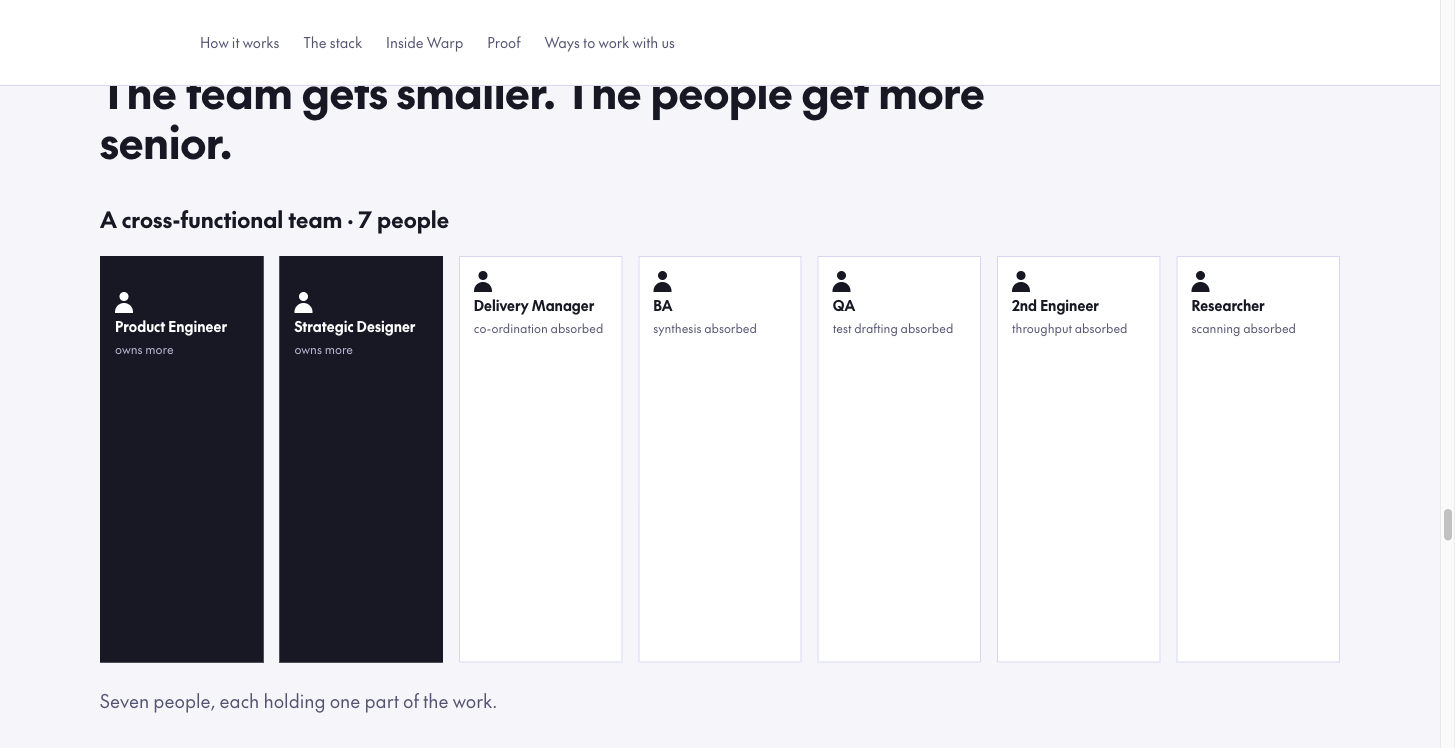
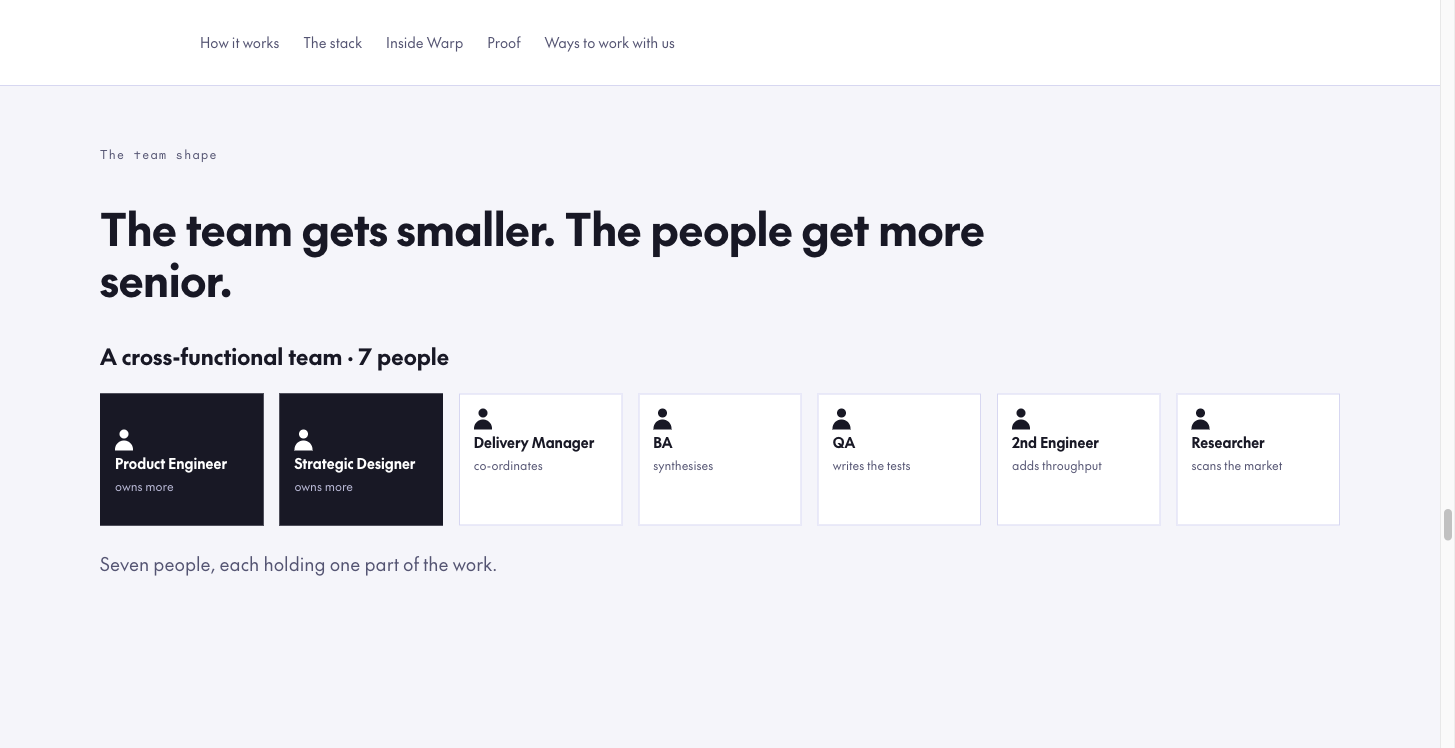
Match the team tile size across both states
The two states had identical tile widths (163px) but wildly different
heights: 407px before, 132px after.

Cause: a zero-width flex item still lays its text out, wrapping to one
character per line, and flex items stretch to the tallest sibling. At
rest the two collapsed arriving tiles were three hundred pixels tall
and setting the height of the whole row.

- .tstage takes a fixed height rather than min-height, so the row can
  never be sized by its content.
- Collapsing tiles keep their text on one line, so it cannot stack
  while their width goes to zero.

Both states now measure 163x132 per tile.

Also: the departing tiles read "co-ordination absorbed" at rest, before
anything had been absorbed. They are only ever read in the before state,
so they now say what the role does — co-ordinates, synthesises, writes
the tests. The absorption is told by them disappearing.

diff --git a/index.html b/index.html
@@ -376,11 +376,11 @@
           <div class="trow">
           <div class="trole trole--stays"><span class="trole__tag">Stays</span><span class="trole__icon"><i></i><u></u></span><span class="trole__name">Product Engineer</span><span class="trole__note">owns more</span></div>
           <div class="trole trole--stays"><span class="trole__tag">Stays</span><span class="trole__icon"><i></i><u></u></span><span class="trole__name">Strategic Designer</span><span class="trole__note">owns more</span></div>
-          <div class="trole trole--leaves"><span class="trole__icon"><i></i><u></u></span><span class="trole__name">Delivery Manager</span><span class="trole__note">co-ordination absorbed</span></div>
-          <div class="trole trole--leaves"><span class="trole__icon"><i></i><u></u></span><span class="trole__name">BA</span><span class="trole__note">synthesis absorbed</span></div>
-          <div class="trole trole--leaves"><span class="trole__icon"><i></i><u></u></span><span class="trole__name">QA</span><span class="trole__note">test drafting absorbed</span></div>
-          <div class="trole trole--leaves"><span class="trole__icon"><i></i><u></u></span><span class="trole__name">2nd Engineer</span><span class="trole__note">throughput absorbed</span></div>
-          <div class="trole trole--leaves"><span class="trole__icon"><i></i><u></u></span><span class="trole__name">Researcher</span><span class="trole__note">scanning absorbed</span></div>
+          <div class="trole trole--leaves"><span class="trole__icon"><i></i><u></u></span><span class="trole__name">Delivery Manager</span><span class="trole__note">co-ordinates</span></div>
+          <div class="trole trole--leaves"><span class="trole__icon"><i></i><u></u></span><span class="trole__name">BA</span><span class="trole__note">synthesises</span></div>
+          <div class="trole trole--leaves"><span class="trole__icon"><i></i><u></u></span><span class="trole__name">QA</span><span class="trole__note">writes the tests</span></div>
+          <div class="trole trole--leaves"><span class="trole__icon"><i></i><u></u></span><span class="trole__name">2nd Engineer</span><span class="trole__note">adds throughput</span></div>
+          <div class="trole trole--leaves"><span class="trole__icon"><i></i><u></u></span><span class="trole__name">Researcher</span><span class="trole__note">scans the market</span></div>
           <div class="trole trole--arrives trole--agents"><span class="trole__tag">Added</span><span class="trole__icon trole__icon--ai"><svg viewBox="0 0 12 12" aria-hidden="true"><path d="M6 0c.5 3.3 2.7 5.5 6 6-3.3.5-5.5 2.7-6 6-.5-3.3-2.7-5.5-6-6 3.3-.5 5.5-2.7 6-6Z"/></svg></span><span class="trole__name">Agent fleet · 24/7</span><span class="trole__note">drafts, never decides</span></div>
           <div class="trole trole--arrives trole--counsel"><span class="trole__tag">On call</span><span class="trole__icon"><i></i><u></u></span><span class="trole__name">Product counsel</span><span class="trole__note">specialist craft, on call</span></div>
           </div>

diff --git a/styles.css b/styles.css
@@ -173,7 +173,7 @@ a { color: inherit; }
    transition was a double image, and nothing said which roles stayed.
    Here the two that stay never flicker, the five that go collapse to zero
    width, and the two new ones open out — so the row shortens in place. */
-.tstage { position: relative; min-height: 132px; }
+.tstage { position: relative; height: 132px; }
 .trow { display: flex; align-items: stretch; height: 100%;
   --tw: calc((100% - 6 * var(--s-3)) / 7); }
 .trole { flex: 0 0 var(--tw); margin-right: var(--s-3); min-width: 0; }
@@ -204,7 +204,9 @@ a { color: inherit; }
    tile was breaking "Researcher" across lines, which is busy for content
    that is on its way out anyway */
 .trow .trole--leaves .trole__name,
-.trow .trole--leaves .trole__note { white-space: nowrap; }
+.trow .trole--leaves .trole__note,
+.trow .trole--arrives .trole__name,
+.trow .trole--arrives .trole__note { white-space: nowrap; }
 
 /* the "Stays" tag only means anything once something has left */
 .trole--stays .trole__tag { opacity: var(--pm); }
@@ -237,7 +239,7 @@ a { color: inherit; }
   .vscroll__track { display: none; }
   .vscroll__note { min-height: 0; }
   .lc .lb { width: var(--b); }
-  .tstage { min-height: 0; }
+  .tstage { height: auto; }
   .trow { flex-wrap: wrap; --tw: calc((100% - var(--s-3)) / 2); }
   .trole--leaves, .trole--arrives { flex-basis: var(--tw); margin-right: var(--s-3);
     padding: 14px; border-width: 1px; opacity: 1; }
